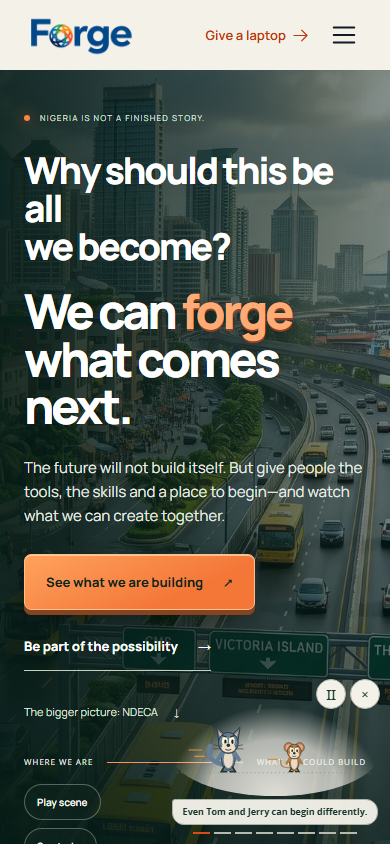
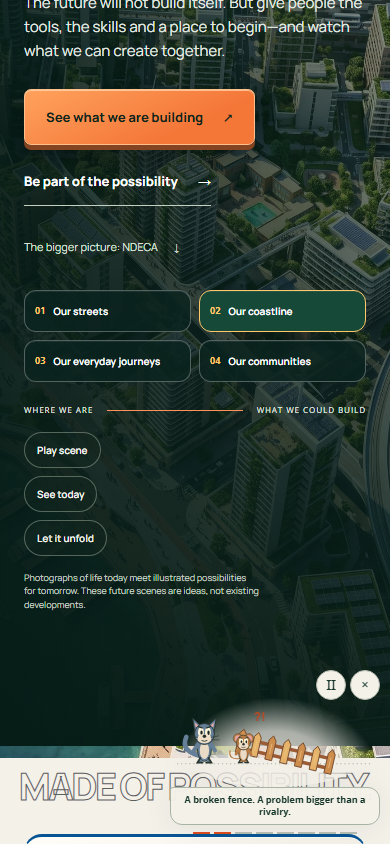
Refine reading layouts and gratitude with Forge colours and four hero stories

diff --git a/components/home/LivingHero.tsx b/components/home/LivingHero.tsx
@@ -2,12 +2,28 @@
 
 import Image from "next/image";
 import Link from "next/link";
-import { useState, type PointerEvent } from "react";
+import { useEffect, useState, type PointerEvent } from "react";
 import styles from "./LivingHero.module.css";
+
+const chapters = [
+  { label: 'Our streets', before: '/images/home/nigeria-then-approved.webp', after: '/images/home/nigeria-future-approved.webp' },
+  { label: 'Our coastline', before: '/images/home/nigeria-then1.webp', after: '/images/home/nigeria-now2.webp' },
+  { label: 'Our everyday journeys', before: '/images/home/nigeria-then3.webp', after: '/images/home/nigeria-now3.webp' },
+  { label: 'Our communities', before: '/images/home/nigeria-then4.webp', after: '/images/home/nigeria-now4.webp' },
+];
 
 export default function LivingHero() {
   const [paused,setPaused]=useState(false);
   const [scene,setScene]=useState<'auto'|'today'|'possibility'>('auto');
+  const [chapter,setChapter]=useState(0);
+  useEffect(()=>{
+    if(paused || scene!=='auto') return;
+    const timer=setInterval(()=>{
+      if(matchMedia('(prefers-reduced-motion: reduce)').matches || document.hidden || document.documentElement.dataset.forgeMotion==='paused') return;
+      setChapter(value=>(value+1)%chapters.length);
+    },20000);
+    return ()=>clearInterval(timer);
+  },[paused,scene,chapter]);
   function resetDepth(element: HTMLElement) {
     element.style.setProperty('--depth-x','0px');
     element.style.setProperty('--depth-y','0px');
@@ -19,9 +35,9 @@ export default function LivingHero() {
     event.currentTarget.style.setProperty('--depth-y',`${((event.clientY-box.top)/box.height-.5)*10}px`);
   }
   return <section id="company" className={styles.hero} data-paused={paused} data-scene={scene} aria-labelledby="home-title" onPointerMove={followPointer} onPointerLeave={event=>resetDepth(event.currentTarget)}>
-    <div className={styles.landscape} aria-hidden="true">
-      <Image className={styles.today} src="/images/home/nigeria-then-approved.webp" alt="" fill priority sizes="100vw"/>
-      <Image className={styles.possibility} src="/images/home/nigeria-future-approved.webp" alt="" fill sizes="100vw"/>
+    <div key={chapter} className={styles.landscape} aria-hidden="true">
+      <Image className={styles.today} src={chapters[chapter].before} alt="" fill priority={chapter===0} sizes="100vw"/>
+      <Image className={styles.possibility} src={chapters[chapter].after} alt="" fill loading="eager" sizes="100vw"/>
       <div className={styles.sunlight}/>
       <svg className={styles.birds} viewBox="0 0 140 40" fill="none"><path d="M10 18q8-8 16 0 8-8 16 0M60 29q6-6 12 0 6-6 12 0M100 10q6-6 12 0 6-6 12 0" stroke="currentColor" strokeWidth="1.4"/></svg>
     </div>
@@ -38,13 +54,16 @@ export default function LivingHero() {
       <a className={styles.ndeca} href="#ndeca">The bigger picture: NDECA <span aria-hidden="true">↓</span></a>
     </div>
     <div className={styles.bottom}>
+      <div className={styles.chapters} role="group" aria-label="Explore the four landscape stories">
+        {chapters.map((item,index)=><button key={item.label} aria-pressed={chapter===index} onClick={()=>{setChapter(index);setScene('auto');setPaused(false);}}><span aria-hidden="true">0{index+1}</span> {item.label}</button>)}
+      </div>
       <div className={styles.timeline} aria-hidden="true"><span>Where we are</span><i/><span>What we could build</span></div>
       <div className={styles.controls}>
         <button onClick={event=>{resetDepth(event.currentTarget.closest('section')!);if(paused){setScene('auto');setPaused(false);}else setPaused(true);}} aria-pressed={paused} aria-label={paused?'Play the landscape animation':'Pause the landscape animation'}>{paused?'Play scene':'Pause scene'}</button>
         <button onClick={()=>{setScene(value=>value==='possibility'?'today':'possibility');setPaused(true);}}>{scene==='possibility'?'See today':'See the possibility'}</button>
         {scene!=='auto' && <button onClick={()=>{setScene('auto');setPaused(false);}}>Let it unfold</button>}
       </div>
-      <p className={styles.disclosure}>A photograph of Lagos meets an illustrated vision of what we could build. The future scene is an idea, not an existing development.</p>
+      <p className={styles.disclosure}>Photographs of life today meet illustrated possibilities for tomorrow. These future scenes are ideas, not existing developments.</p>
     </div>
   </section>;
 }

diff --git a/components/home/Editorial.module.css b/components/home/Editorial.module.css
@@ -734,3 +734,15 @@
 .journalLead h2{font-size:clamp(30px,3.4vw,55px);line-height:1.13;letter-spacing:-.045em;margin:18px 0 25px}.journalLead h2 a,.journalEssays h3 a{text-decoration:none;color:inherit}.journalLead p{line-height:1.8;max-width:650px}.journalLead>a{margin-top:20px}
 .journalEssays{display:grid;grid-template-columns:repeat(3,1fr);border-top:1px solid #b8bcaa;gap:35px;padding-top:35px}.journalEssays article{display:flex;flex-direction:column;align-items:flex-start}.journalEssays h3{font-size:27px;line-height:1.25;letter-spacing:-.035em;margin:20px 0 14px}.journalEssays article>p{line-height:1.75}.journalEssays article>a{margin-top:auto;padding-top:18px}.newJournal a:focus-visible{outline:3px solid #b54018;outline-offset:6px}
 @media(max-width:760px){.newJournal{padding:55px 24px}.journalHeading{align-items:flex-start;flex-direction:column}.journalFeature{grid-template-columns:1fr;gap:35px;padding:38px 0}.journalDrawing{max-width:430px;margin:auto}.journalEssays{grid-template-columns:1fr;gap:35px}.journalEssays article+article{border-top:1px solid #b8bcaa;padding-top:25px}}
+
+/* Raised rows use the logo palette and keep a consistent reading inset. */
+.workRow{padding:26px clamp(20px,3vw,32px);margin:14px 0;border:1px solid var(--forge-surface-edge);border-top:3px solid var(--forge-brand-blue);border-radius:18px;background:linear-gradient(130deg,#fffdf7,#ede9df);box-shadow:var(--forge-surface-shadow);align-items:start}
+.workRow:nth-child(3n+2){border-top-color:var(--forge-brand-green)}.workRow:nth-child(3n){border-top-color:var(--forge-brand-gold)}
+.workRow>*{min-width:0}.workRow h2{line-height:1.16}.workRow>p{text-align:start}.number{color:var(--forge-brand-blue)}
+.movement{background:linear-gradient(120deg,#ed5b21,#d44918);display:grid;grid-template-columns:minmax(0,1.15fr) minmax(0,1fr);align-items:center;min-height:0}
+.movementCopy{position:relative;width:auto;max-width:none;padding:clamp(34px,5vw,72px) 24px clamp(34px,5vw,72px) max(24px,5.55vw)}
+.movement h2{font-size:clamp(36px,4.2vw,64px);margin:24px 0 20px;line-height:1.05}.movement h2 span{color:#102d24}
+.movementLead{font-size:clamp(18px,1.7vw,23px);max-width:560px}.movement .actions{margin-top:26px;gap:20px}
+.studentFigure{margin:0;align-self:end;min-width:0;padding:24px 0 0}.studentFigure img{display:block;width:100%;height:auto}.studentFigure figcaption{font-size:10px;line-height:1.5;padding:12px 20px;color:#fff7eb;background:#74301e33}
+@media(max-width:850px){.movement{grid-template-columns:1fr;min-height:0}.movementCopy{padding:36px 24px 20px}.studentFigure{width:min(680px,100%);justify-self:end;padding-top:0}.movement h2{font-size:clamp(32px,8vw,56px)}}
+@media(max-width:700px){.workRow{grid-template-columns:24px minmax(0,1fr);gap:16px}.workRow>p{grid-column:2;border-left:0;padding-left:0;max-width:none}.workActions{grid-column:2}}

diff --git a/app/about/Leadership.module.css b/app/about/Leadership.module.css
@@ -1,1 +1,12 @@
 .people{display:grid;grid-template-columns:repeat(2,minmax(0,1fr));gap:clamp(24px,5vw,72px);margin-top:40px}.person{margin:0;display:grid;grid-template-columns:minmax(110px,45%) 1fr;align-items:end;gap:22px;border-top:1px solid #173e332f;padding-top:24px}.person img{width:100%;height:auto;aspect-ratio:1;object-fit:cover;border-radius:4px 4px 40px 4px}.person span{font-size:.75rem;line-height:1.6;text-transform:uppercase;letter-spacing:.08em}.person h3{font-size:clamp(1.3rem,2.4vw,2.1rem);line-height:1.1;margin:12px 0 0}@media(max-width:700px){.people{grid-template-columns:1fr}.person{grid-template-columns:40% 1fr}}
+
+.gratitude{position:relative;isolation:isolate;overflow:hidden;display:grid;grid-template-columns:minmax(0,1.1fr) minmax(0,1fr);gap:clamp(28px,5vw,76px);align-items:center;padding:clamp(30px,5vw,68px);margin:30px 0 62px;border:1px solid #3471a1;border-radius:28px;color:#fff8e8;background:radial-gradient(ellipse at 4% 100%,#278b7a38,transparent 55%),radial-gradient(ellipse at 92% 0%,#e8ad1322,transparent 52%),linear-gradient(125deg,#062c4d,#08466c 64%,#082c46);box-shadow:inset 0 1px 0 #ffffff26,0 6px 0 #05253f,0 24px 42px -25px #07375499}
+.gratitude::before{content:"";position:absolute;inset:0 0 auto;height:4px;background:var(--forge-brand-spectrum);z-index:-1}
+.gratitude::after{content:"";position:absolute;width:340px;height:340px;right:-130px;top:-190px;border:1px solid #f5d17d30;border-radius:50%;box-shadow:0 0 0 40px #f5d17d08,0 0 0 80px #f5d17d05;z-index:-1}
+.gratitude .gratitudeKicker{font-size:10px;font-weight:750;letter-spacing:.2em;text-transform:uppercase;color:#f7d58f;margin:0 0 24px}
+.gratitude h2{font-size:clamp(27px,3vw,43px);font-weight:650;line-height:1.2;letter-spacing:-.035em;margin:0;color:#fff8e8}
+.gratitude h2 span{display:block;font-size:clamp(54px,6.6vw,94px);font-weight:800;line-height:1.15;letter-spacing:-.045em;color:#ffd582;margin-top:10px;text-shadow:0 2px 0 #8d651d,0 6px 18px #031e3b70,0 0 36px #ffc85b33}
+.gratitudeMessage{min-width:0;padding-left:clamp(0px,3vw,36px);border-left:1px solid #f6d38a45}
+.gratitudeMessage p{font-size:clamp(17px,1.45vw,20px);line-height:1.85;margin:0;max-width:52ch}
+.gratitudeSignature{display:block;margin-top:24px;padding-top:18px;border-top:1px solid #ffffff24;font-size:12px;line-height:1.6;color:#f7d58f}
+@media(max-width:750px){.gratitude{grid-template-columns:1fr;margin-bottom:42px;border-radius:22px}.gratitudeMessage{border-left:0;border-top:1px solid #f6d38a45;padding:26px 0 0}.gratitude h2 span{font-size:clamp(48px,13vw,76px)}}

diff --git a/app/about/page.tsx b/app/about/page.tsx
@@ -31,10 +31,15 @@ export default function Page() {
           <Link href="/contact?interest=partnership">Build with us →</Link>
         </div>
       </header>
-      <section className={s.section}>
-        <p className={s.eyebrow}>Where this began</p>
-        <h2>With gratitude to Jehovah.</h2>
-        <p>Forge was founded through inspiration from Jehovah. We are grateful that he gave us this beginning, and we hope that what we build, how we work and the care we show people will bring glory to him.</p>
+      <section className={leadership.gratitude} aria-labelledby="gratitude-title">
+        <div>
+          <p className={leadership.gratitudeKicker}>Where this began</p>
+          <h2 id="gratitude-title">With gratitude to <span>Jehovah.</span></h2>
+        </div>
+        <div className={leadership.gratitudeMessage}>
+          <p>Forge was founded through inspiration from Jehovah. We are grateful that he gave us this beginning, and we hope that what we build, how we work and the care we show people will bring glory to him.</p>
+          <span className={leadership.gratitudeSignature}>A beginning we do not take for granted.</span>
+        </div>
       </section>
       <section className={s.section}>
         <p className={s.eyebrow}>The people carrying the work forward</p>
@@ -66,7 +71,7 @@ export default function Page() {
         <figure>
           <Image
             className={s.image}
-            src="/images/editorial/company-team.webp"
+            src="/images/editorial/forge-shared-ideas.webp"
             alt="Illustration of Nigerian adults collaborating on an idea in a creative technology studio"
             width={1024}
             height={1024}

diff --git a/components/site/Site.module.css b/components/site/Site.module.css
@@ -241,3 +241,16 @@
 .form button:disabled{opacity:.6;cursor:wait}
 @media(hover:hover) and (prefers-reduced-motion:no-preference){.button:hover{transform:translateY(-2px);box-shadow:inset 0 1px 0 #ffffff40,0 4px 0 #071a14,0 18px 26px -12px #102b2280}}
 @media(prefers-reduced-motion:reduce){.button{transition:none}}
+
+/* Consistent reading edges and breathing room inside editorial boxes. */
+.page :is(h1,h2,h3,p,li){overflow-wrap:break-word}
+.split>*{min-width:0}
+.split h2,.section>h2{margin-bottom:22px}
+.split p+p,.section>p:not(.eyebrow){margin-top:20px}
+.section>p:not(.eyebrow){max-width:75ch}
+.row{grid-template-columns:44px minmax(0,.9fr) minmax(0,1.1fr);gap:28px;align-items:start;text-align:start;border-top:3px solid var(--forge-brand-blue)}
+.row:nth-child(3n+2){border-top-color:var(--forge-brand-green)}
+.row:nth-child(3n){border-top-color:var(--forge-brand-gold)}
+.row>*{min-width:0}.row h3{line-height:1.2;margin:0 0 14px}.row p{margin:0;max-width:65ch}.row a{display:inline-block;line-height:1.6}.number,.eyebrow{color:var(--forge-brand-blue)}
+.campaign .eyebrow{color:inherit}
+@media(max-width:700px){.row{grid-template-columns:26px minmax(0,1fr);gap:14px;padding:24px 20px}.row>p{grid-column:2}.split h2,.section>h2{margin-bottom:18px}}

diff --git a/app/HomePageClient.tsx b/app/HomePageClient.tsx
@@ -67,13 +67,6 @@ export default function HomePageClient() {
         className={styles.movement}
         aria-labelledby="movement-title"
       >
-        <Image
-          src="/images/home/orange-beginning.webp"
-          alt=""
-          fill
-          sizes="100vw"
-          className={styles.movementImage}
-        />
         <div className={styles.movementCopy}>
           <p className={styles.eyebrow}>
             Endless Possibilities — a Forge ITs movement
@@ -99,6 +92,10 @@ export default function HomePageClient() {
             </Link>
           </div>
         </div>
+        <figure className={styles.studentFigure}>
+          <Image src="/images/home/student-possibilities.webp" alt="AI illustration of Nigerian secondary-school students sharing an idea on a laptop" width={1200} height={800} sizes="(max-width:850px) 100vw, 48vw" />
+          <figcaption>AI-created students, illustrating the opportunity we want to make possible.</figcaption>
+        </figure>
       </section>
       <section
         id="stories"

diff --git a/components/movement/Movement.module.css b/components/movement/Movement.module.css
@@ -1116,3 +1116,7 @@
 
 /* Layered surfaces, shared with the Forge editorial system. */
 .roleDetail, .heroNote, .eligibility{border-radius:18px;border:1px solid var(--forge-surface-edge);box-shadow:var(--forge-surface-shadow);background-image:linear-gradient(130deg,rgba(255,255,255,.1),transparent 58%);}
+
+.initiativeRow>*{min-width:0}.initiativeRow>p{text-align:start}.initiativeRow h3{line-height:1.18}.eligibility{padding:clamp(22px,3vw,36px)}
+.initiativeNumber{color:var(--forge-brand-blue)}
+.learningPortrait{width:min(1280px,calc(100% - 48px));margin:0 auto 64px;border-radius:24px;overflow:hidden;border:1px solid #d6ad81;background:#e9d5bb;box-shadow:var(--forge-surface-shadow)}.learningPortrait img{width:100%;height:auto;display:block}.learningPortrait figcaption{padding:16px 22px;font-size:12px;line-height:1.6;color:#163f32;background:#f5eee0}

diff --git a/components/home/LivingHero.module.css b/components/home/LivingHero.module.css
@@ -81,3 +81,9 @@
  .landscape { transform:none; }
  .answer em { text-shadow:0 2px 0 #8b4224,0 5px 15px #0006; }
 }
+
+.hero{--cycle:20s}
+.chapters{display:flex;gap:8px;flex-wrap:wrap;margin-bottom:6px}
+.chapters button{display:inline-flex;align-items:center;gap:8px;padding:10px 13px;min-height:42px;border:1px solid #ffffff4a;border-radius:12px;background:#0b231edb;color:#fff;font:650 11px/1.4 "Manrope Variable",sans-serif;text-align:start;cursor:pointer;box-shadow:inset 0 1px 0 #ffffff12}
+.chapters button span{color:#ffc86a;font-size:9px}.chapters button[aria-pressed=true]{border-color:#ffc86a;background:#174939}.chapters button:focus-visible{outline:3px solid #ffc86a;outline-offset:3px}
+@media(max-width:700px){.chapters{display:grid;grid-template-columns:1fr 1fr}.chapters button{padding:9px 10px;font-size:10px}.bottom{padding-bottom:135px}}

diff --git a/components/stories/stories.module.css b/components/stories/stories.module.css
@@ -369,3 +369,9 @@
 
 /* Layered surfaces, shared with the Forge editorial system. */
 .card{border-radius:18px;border:1px solid var(--forge-surface-edge);box-shadow:var(--forge-surface-shadow);background-image:linear-gradient(130deg,rgba(255,255,255,.1),transparent 58%);}
+
+/* Keep copy inset from every raised card edge, with an orderly reading rhythm. */
+.card{padding:28px clamp(22px,3vw,32px) 32px;border-top:3px solid var(--forge-brand-blue)}
+.card:nth-child(3n+2){border-top-color:var(--forge-brand-green)}
+.card:nth-child(3n){border-top-color:var(--forge-brand-gold)}
+.card>*{min-width:0}.card :is(h2,p){text-align:start;overflow-wrap:break-word}.card p{max-width:65ch}.grid{gap:28px}.featured>*{min-width:0}.eyebrow,.sectionLabel{color:var(--forge-brand-blue)}

diff --git a/app/endless-possibilities/give-a-child-a-laptop/page.tsx b/app/endless-possibilities/give-a-child-a-laptop/page.tsx
@@ -183,6 +183,11 @@ export default function EndlessPossibilitiesPage() {
         </div>
       </section>
 
+      <figure className={styles.learningPortrait}>
+        <Image src="/images/editorial/laptop-class-beginning.webp" alt="AI-created Nigerian secondary-school students practising a coding project together with a teacher nearby" width={1672} height={941} sizes="(max-width:700px) 100vw, 90vw" />
+        <figcaption>AI-created students. A picture of the opportunity we are working to provide: a device, guidance and room to practise.</figcaption>
+      </figure>
+
       <section className={styles.process} aria-labelledby="process-title">
         <div className={styles.sectionHeading}>
           <p className={styles.eyebrow}>

diff --git a/app/globals.css b/app/globals.css
@@ -1260,3 +1260,11 @@ p, span, li, td, th, label,
 
 /* Shared tactile surfaces: quiet depth, without changing the editorial palette. */
 :root{--forge-surface-edge:rgba(26,57,43,.16);--forge-surface-shadow:inset 0 1px 0 rgba(255,255,255,.65),0 2px 0 rgba(26,57,43,.09),0 14px 30px -16px rgba(15,43,31,.32);--forge-surface-hover:inset 0 1px 0 rgba(255,255,255,.75),0 3px 0 rgba(26,57,43,.11),0 22px 40px -18px rgba(15,43,31,.36)}
+
+:root {
+  --forge-brand-blue:#075494;
+  --forge-brand-green:#287a42;
+  --forge-brand-gold:#e8ad13;
+  --forge-brand-orange:#e85b23;
+  --forge-brand-spectrum:linear-gradient(90deg,#075494 0% 32%,#2a9547 32% 57%,#f1b51b 57% 78%,#ed5c24 78%);
+}

diff --git a/components/programmes/ProgrammeDetail.module.css b/components/programmes/ProgrammeDetail.module.css
@@ -68,3 +68,4 @@
 
 /* Layered surfaces, shared with the Forge editorial system. */
 .panel{border-radius:18px;border:1px solid var(--forge-surface-edge);box-shadow:var(--forge-surface-shadow);background-image:linear-gradient(130deg,rgba(255,255,255,.1),transparent 58%);}
+.panel>*{min-width:0}.panelCopy :is(p,h3){text-align:start;overflow-wrap:break-word}.skills article{border-top:3px solid var(--forge-brand-blue)}.skills article:nth-child(3n+2){border-top-color:var(--forge-brand-green)}.skills article:nth-child(3n){border-top-color:var(--forge-brand-gold)}
